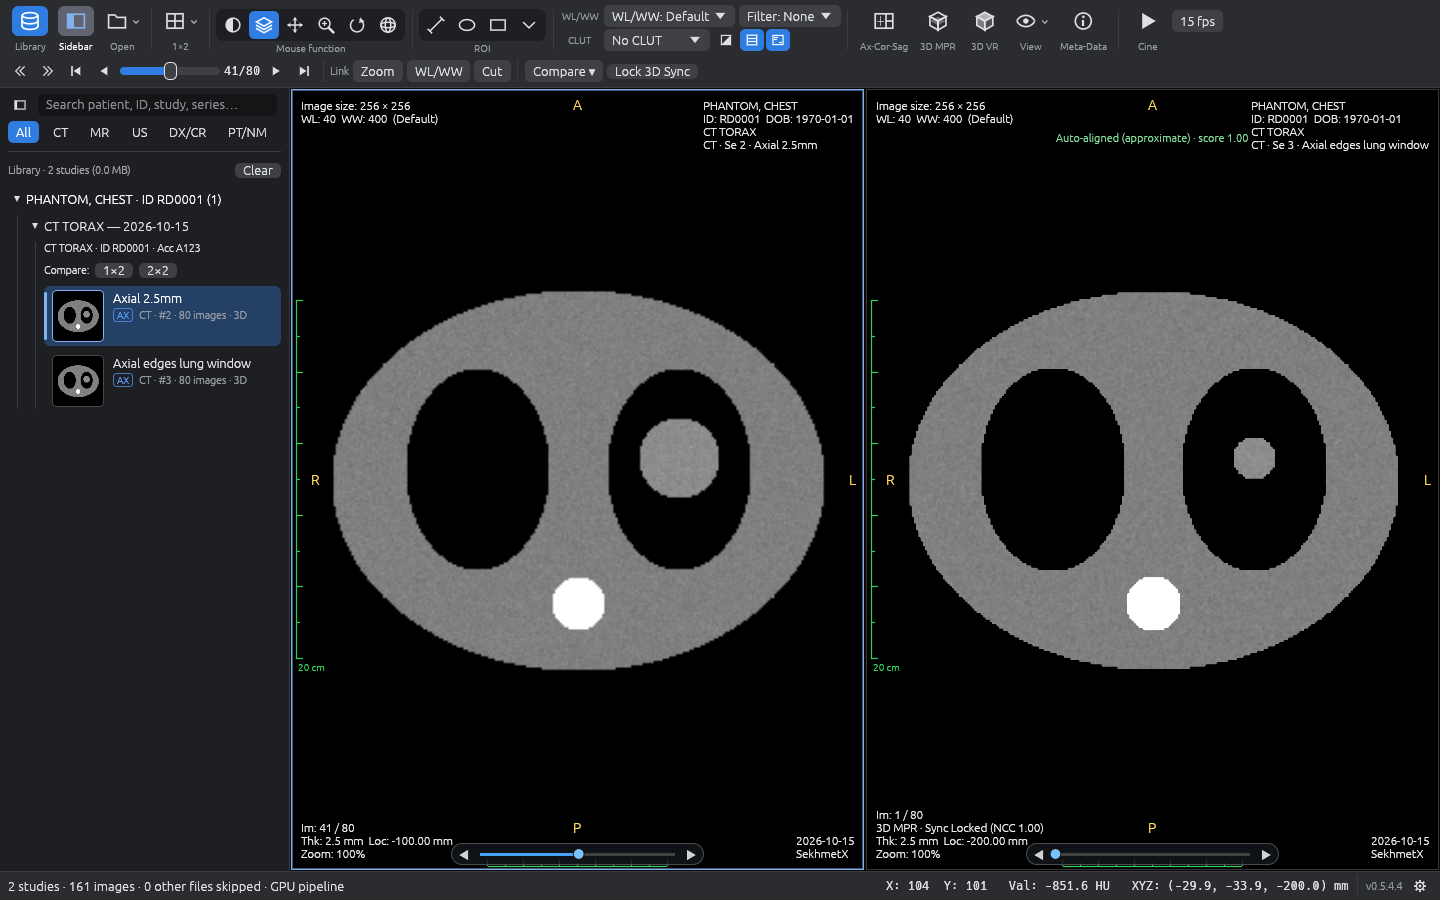
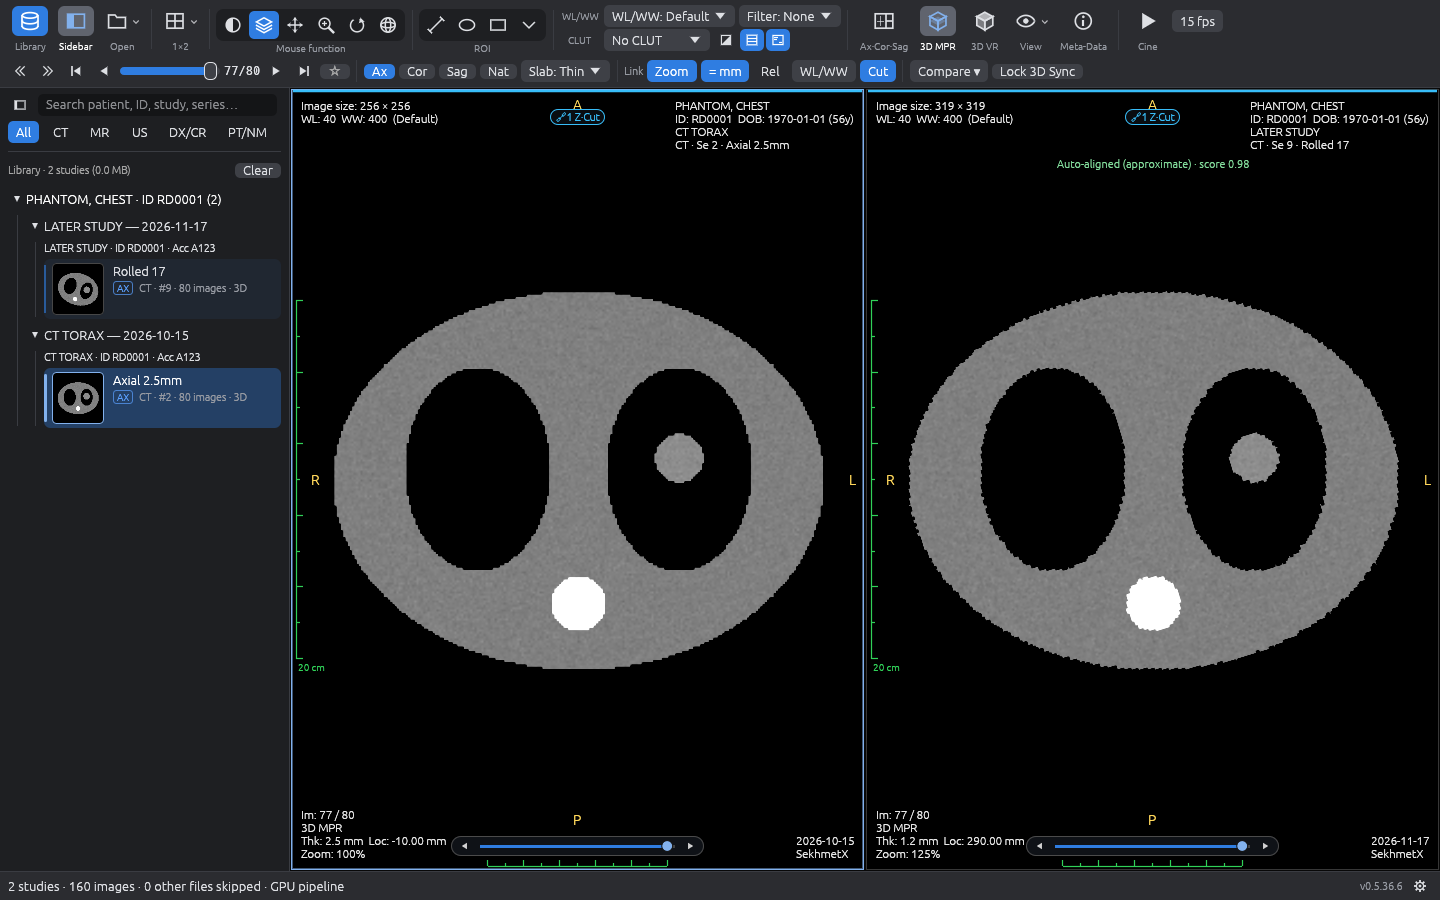
v0.5.37: housekeeping and polish
- Spanish for the last English-only interface texts.
- Thumbnail strip plane colours from the theme.
- README: comparison and series recognition as short points; new
  two-date comparison screenshot (synthetic phantom).
- HANDOFF.md and BUGS.md brought up to date.

Claude-Session: https://claude.ai/code/session_014Ky7fZmCKYEdPLtrrREXzJ

diff --git a/src/app/modals.rs b/src/app/modals.rs
@@ -1281,11 +1281,11 @@ impl ViewerApp {
             .anchor(egui::Align2::RIGHT_BOTTOM, egui::vec2(-14.0, -34.0))
             .show(ctx, |ui| {
                 let Some(k) = self.viewport_measure_key(vp_idx) else {
-                    ui.small("No active slice.");
+                    ui.small(if self.lang == crate::i18n::Lang::Es { "No hay imagen activa." } else { "No active slice." });
                     return;
                 };
                 let Some(frame) = self.viewport_frame(vp_idx) else {
-                    ui.small("Frame not loaded.");
+                    ui.small(if self.lang == crate::i18n::Lang::Es { "Imagen aún no cargada." } else { "Frame not loaded." });
                     return;
                 };
                 let list = self.measures.get(&k);
@@ -1327,7 +1327,7 @@ impl ViewerApp {
                             96,
                         );
                         if samples.len() < 2 {
-                            ui.small("No samples.");
+                            ui.small(if self.lang == crate::i18n::Lang::Es { "Sin muestras." } else { "No samples." });
                             return;
                         }
                         let (min_v, max_v, mean_v) = summarize_samples(&samples);
@@ -1369,14 +1369,14 @@ impl ViewerApp {
                         } else {
                             crate::roi::RoiPlanarGeometry::outline_of_rectangle(r).to_vec()
                         };
-                        draw_histogram_bars(ui, frame, &outline, unit);
+                        draw_histogram_bars(ui, frame, &outline, unit, self.lang);
                     }
                     crate::app::Measure::Polygon(pts) => {
                         let outline: Vec<crate::roi::RoiPoint> = pts
                             .iter()
                             .map(|p| crate::roi::RoiPoint::new(p.x as f64, p.y as f64))
                             .collect();
-                        draw_histogram_bars(ui, frame, &outline, unit);
+                        draw_histogram_bars(ui, frame, &outline, unit, self.lang);
                     }
                     crate::app::Measure::Pencil(pts) => {
                         let raw: Vec<crate::roi::RoiPoint> = pts
@@ -1385,10 +1385,10 @@ impl ViewerApp {
                             .collect();
                         let (smoothed, _) = crate::roi::RoiSpline::smooth(&raw, 1.5);
                         let outline = if smoothed.len() >= 3 { &smoothed } else { &raw };
-                        draw_histogram_bars(ui, frame, outline, unit);
+                        draw_histogram_bars(ui, frame, outline, unit, self.lang);
                     }
                     _ => {
-                        ui.small("Histogram available for Length / Area ROIs.");
+                        ui.small(if self.lang == crate::i18n::Lang::Es { "Histograma disponible para ROI de longitud o de área." } else { "Histogram available for Length / Area ROIs." });
                     }
                 }
             });
@@ -1557,10 +1557,11 @@ fn draw_histogram_bars(
     frame: &crate::frame::Frame,
     outline: &[crate::roi::RoiPoint],
     unit: &str,
+    lang: crate::i18n::Lang,
 ) {
     let samples = crate::roi::sample_region_values(frame, outline);
     if samples.is_empty() {
-        ui.small("No interior pixels.");
+        ui.small(if lang == crate::i18n::Lang::Es { "Sin píxeles dentro de la ROI." } else { "No interior pixels." });
         return;
     }
     let (min_v, max_v, mean_v) = summarize_samples(&samples);

diff --git a/src/app/browser.rs b/src/app/browser.rs
@@ -168,7 +168,7 @@ impl ViewerApp {
             ui.with_layout(egui::Layout::right_to_left(egui::Align::Center), |ui| {
                 if ui
                     .small_button(tr.clear)
-                    .on_hover_text("Clear studies from the local library (files on disk are untouched)")
+                    .on_hover_text(if self.lang == crate::i18n::Lang::Es { "Quitar los estudios de la biblioteca local (los archivos en el disco no se tocan)" } else { "Clear studies from the local library (files on disk are untouched)" })
                     .clicked()
                 {
                     clear_library = true;
@@ -747,9 +747,11 @@ impl ViewerApp {
                                                             .size(11.0)
                                                             .color(theme::accent_bright()),
                                                     )
-                                                    .on_hover_text(
-                                                        "Grouped Axial / Coronal / Sagittal reconstructions. Click to open in 3D MPR.",
-                                                    );
+                                                    .on_hover_text(if self.lang == crate::i18n::Lang::Es {
+                                                        "Reconstrucciones axial / coronal / sagital agrupadas. Clic para abrir en MPR 3D."
+                                                    } else {
+                                                        "Grouped Axial / Coronal / Sagittal reconstructions. Click to open in 3D MPR."
+                                                    });
                                                 if hdr.clicked() {
                                                     let target_ri = active_sel
                                                         .filter(|&(s_i, r_i)| {
@@ -1080,13 +1082,7 @@ impl ViewerApp {
                                 clicked = Some((self.active_viewport, (si, ri)));
                             }
 
-                            let badge_color = match cut_badge {
-                                "AX" => Color32::from_rgb(110, 190, 255),
-                                "COR" => Color32::from_rgb(130, 225, 160),
-                                "SAG" => Color32::from_rgb(255, 195, 105),
-                                b if b.starts_with("MPR") => theme::plane_color(b),
-                                _ => Color32::from_gray(175),
-                            };
+                            let badge_color = theme::plane_color(cut_badge);
                             ui.label(
                                 egui::RichText::new(format!(
                                     "{cut_badge} · {}",

diff --git a/src/app/viewport.rs b/src/app/viewport.rs
@@ -941,11 +941,11 @@ impl ViewerApp {
                 if resp.clicked() {
                     self.viewports[vp_idx].link_group = (raw_group + 1) % 5;
                 }
-                resp.on_hover_text("Click to cycle Link Group (1–4 or Off)");
+                resp.on_hover_text(if self.lang == crate::i18n::Lang::Es { "Clic para cambiar de grupo de vínculo (1–4 o ninguno)" } else { "Click to cycle Link Group (1–4 or Off)" });
             }
         } else if cell_count > 2 && any_link {
             let col = Color32::from_gray(145);
-            let label = "○ Link".to_string();
+            let label = if self.lang == crate::i18n::Lang::Es { "○ Vincular" } else { "○ Link" }.to_string();
             let font = FontId::proportional(10.5);
             let galley = painter.layout_no_wrap(label.clone(), font.clone(), col);
             let pill_size = galley.size() + vec2(12.0, 4.0);
@@ -964,7 +964,7 @@ impl ViewerApp {
             if resp.clicked() {
                 self.viewports[vp_idx].link_group = 1;
             }
-            resp.on_hover_text("Click to assign this viewport to a Link Group");
+            resp.on_hover_text(if self.lang == crate::i18n::Lang::Es { "Clic para asignar este visor a un grupo de vínculo" } else { "Click to assign this viewport to a Link Group" });
         }
     }
 

diff --git a/HANDOFF.md b/HANDOFF.md
@@ -1,4 +1,4 @@
-# Handoff: where the project stands (v0.5.18, 17 Nov 2026)
+# Handoff: where the project stands (v0.5.37, 19 Nov 2026)
 
 Written for whoever continues this, human or agent. It records what exists,
 the owner's standing rules, what was verified, what is unfinished, and what
@@ -70,7 +70,7 @@ These were set over the course of the project and are not all in `AGENTS.md`.
   file SekhmetX reads. Wait for the owner's design before starting it.
 - Dark theme is the default.
 
-## What exists (v0.5.18)
+## What exists (v0.5.37)
 
 - **2D viewer:** scroll, zoom, pan, rotate/flip, invert, cine, Horos window
   presets, 31 CLUTs, 22 convolution filters, GPU window/level with bilinear
@@ -91,9 +91,25 @@ These were set over the course of the project and are not all in `AGENTS.md`.
 - **3D volume rendering:** GPU ray-caster (VR and MIP), five presets, shading
   with ambient/diffuse/specular, histogram and transfer-function editor,
   clip box, background colour, orientation cube.
-- **Comparison:** layouts up to 4×4, colour-coded link groups (zoom, WL, cut),
-  two zoom-link modes, cross-study rigid registration on a worker thread,
-  Compare popover.
+- **Comparison of two dates** (`src/volume.rs` registration, `src/app/mpr_sync.rs`):
+  layouts up to 4×4, colour-coded link groups (zoom, WL, cut), Compare popover.
+  Registration runs on a worker thread: a whole-volume search and a
+  body-outline method (body mask per axial slice without the table, height
+  profiles, roll from the outline, refinement on body voxels), the better one
+  kept, then refined per level (8 cm stretches every 3 cm, `fit_local`) for
+  breathing, twist and pelvic tilt. The viewport where a link is switched on
+  is the master (`link_master`); followers are turned, centred on the matching
+  anatomy and zoomed "= mm" to it. `Ctrl`/`Cmd` adjusts one viewport alone and
+  relocks. `sekhmetx.log` records each registration ("Body registration",
+  "Local alignment", "Registration finished").
+- **Series recognition** (`src/dicom_index.rs`): complete volumes (≥30 slices,
+  ≤2 mm) get an MPR badge (MPR-A/C/S when one reconstruction exists as volumes
+  in several planes); reconstructions are folded into their volume's card
+  (`find_reconstructions`): by position for placeable series, and for
+  Secondary Capture pictures (no position/orientation, typical of Canon spine
+  coronals) by their run of same-named neighbouring series and acquisition
+  time, with the plane inferred from the run. Canon FC kernel codes, Spanish
+  kernel words, dose pages to "Single images / Scouts".
 - **Other:** PNG and anonymized DICOM export, anonymized `Ctrl+C` screenshot,
   right-click menu with a tool palette, maximise a viewport by double-click,
   drag-and-drop series, metadata inspector, EN/ES interface, OLED theme,
@@ -129,7 +145,12 @@ Local data lives in `%LOCALAPPDATA%\SekhmetX` (or beside the exe when a
 
 ## What was verified, and what was not
 
-Verified on Linux, 17 Nov 2026, at v0.5.18:
+Verified on Linux, 19 Nov 2026, at v0.5.37: clippy (Rust 1.97) clean, 124 tests
+pass, build succeeds; comparison, series badges and folding checked by eye on
+synthetic phantoms. The owner tested two-date comparison and series grouping
+on real chest-abdomen-pelvis and whole-spine CTs (Canon) up to v0.5.29.
+
+Earlier, at v0.5.18:
 - `cargo clippy --release -- -D warnings` (Rust 1.97): clean. GitHub's CI used
   an older Rust and passed v0.5.17 even though Rust 1.97 rejected it; expect
   newer lints to appear when CI updates.
@@ -180,7 +201,17 @@ Not verified:
 
 ## Next steps
 
-The owner was offered these after v0.5.1 and has not chosen yet. Ask him.
+Open threads from the latest work:
+- Check the per-level alignment and the new "= mm" / centring on more real
+  two-date studies; tune the per-level limits (30 mm height, 15 mm, 6°) from
+  `sekhmetx.log` if needed.
+- Reading a picture-only series' plane from the image itself (symmetry and
+  shape of the body), as a fallback when its block does not show the other
+  two planes. Not needed for the studies seen so far.
+- The blank first images of a turned (oblique) follower near the top of a
+  scan: the scroll range spans the plane's projected extent.
+
+Longer-term options offered after v0.5.1, not yet chosen. Ask the owner.
 
 1. Curved MPR and measurements in 3D MPR.
 2. PET-CT fusion with SUV (`fusion-pet`, P2, not started).
@@ -195,6 +226,14 @@ Smaller candidates the IsiX 6.0.4 review turned up: live length ratios
 (`RulerCalibration`), and ultrasound region calibration (`USRegion`).
 
 ## Working across sessions
+
+**State on 19 Nov 2026:** GitHub `master` holds everything up to v0.5.37. The
+owner's PC had a local, unpushed v0.5.29 made with Antigravity (it added a
+"Fusión" toolbar button); it was never on GitHub, so this line of work does
+not contain it. Before working on the PC again, save that local work on a
+branch and reset the PC's `master` to GitHub's (see the steps given to the
+owner), then re-apply anything from it that is still wanted.
+
 
 Work has moved between Antigravity (Gemini) on the owner's PC, a Claude Code
 cloud session, and a local Claude Code session in the same PC folder. Only one

diff --git a/README.md b/README.md
@@ -64,10 +64,15 @@ or Pixmeo. It does not use their names or icons in the application.
 - Full-window library view with modality albums, a sortable study table, series
   thumbnails and a study details pane; search by patient, ID, accession, study
   or series.
-- Axial, coronal and sagittal reconstructions of one acquisition are grouped
-  together, and MIP series are kept apart from their source stacks. A complete
-  thin-slice volume is marked MPR; separate reconstructions made from it are
-  hidden inside its card, shown by clicking their AX/COR/SAG tags.
+- Series are recognised the way a reader thinks of them: a complete thin-slice
+  volume is marked **MPR** (or MPR-A / MPR-C / MPR-S when the same
+  reconstruction exists in several planes); separate axial, coronal and
+  sagittal reconstructions made from it are tucked inside its card and shown by
+  clicking their AX/COR/SAG tags. This also works for reconstructions saved as
+  plain pictures, matched by acquisition time, kernel (including Canon FC
+  codes) and their place in the series list.
+- MIP series and different kernels are kept apart; dose reports, protocol pages
+  and scouts are gathered under "Single images / Scouts".
 
 **2D viewing**
 - GPU window/level with optional bilinear smoothing and a CPU fallback.
@@ -89,15 +94,15 @@ or Pixmeo. It does not use their names or icons in the application.
   gantry-tilt support and slice-spacing checks.
 - GPU volume rendering and 3D MIP with presets, shading, a transfer-function
   editor, clipping and an orientation cube.
-- Side-by-side comparison of studies from different dates with automatic 3D
-  alignment that matches the body outline (so a patient lying rolled, or a
-  scan covering a different stretch of the body, still lines up), refined
-  level by level for breathing and posture differences, and turns the
-  other images to match the viewport the comparison started from; or manual
-  alignment when the patient lay differently: hold
-  `Ctrl`/`Cmd` to move or turn one image alone and it stays linked with that
-  difference. Switching a link on makes the others match the viewport you are
-  in; "= mm" zoom shows both at the same physical scale.
+- Side-by-side comparison of studies from different dates:
+  - automatic 3D alignment that matches the body outline, so a patient lying
+    rolled, or a scan covering a different stretch of the body, still lines up;
+  - refined level by level along the body for breathing and posture
+    differences, followed smoothly while scrolling;
+  - the other images turn, centre and zoom to match the viewport the
+    comparison started from, at the same physical scale ("= mm");
+  - manual alignment when needed: hold `Ctrl`/`Cmd` to move or turn one image
+    alone, and it stays linked with that difference.
 
 **Measurements and key images**
 - Length, angle, Cobb angle, arrow with text, oval, rectangle, polygon, pencil
@@ -216,7 +221,7 @@ against Horos or IsiX.
 
 ## More screenshots
 
-| Comparing two series side by side | Library |
+| Two dates compared, the later one turned upright automatically | Library |
 |---|---|
 | ![Two linked viewports](docs/screenshots/compare.png) | ![Library view](docs/screenshots/library.png) |
 

diff --git a/BUGS.md b/BUGS.md
@@ -7,6 +7,9 @@ Per `AGENTS.md`, before updating SekhmetX or fixing any bug:
 3. Port/adapt the fix, add a regression test, mark the item `[x]` here, and release.
 
 ## Resolved
+- [x] **Comparison opened at different sizes and positions** (`v0.5.30`): "= mm" zoom was matched before the turned image was redrawn at its new size, and a turned image was centred on the middle of its own scan. Zoom now matches after the redraw; the matching anatomy is centred.
+- [x] **Reconstructions filed under the wrong volume** (`v0.5.34`–`v0.5.36`): coronal spine reconstructions saved as Secondary Capture (no position or orientation) showed as "2D", and same-named lumbar ones went under the thoracic volume. Now filed by their block of neighbouring series and their acquisition time, plane inferred from the block; Canon FC kernel codes and Canon dose pages recognised.
+- [x] **Two-date alignment off by a few millimetres or degrees** (`v0.5.26`–`v0.5.27`): one rigid fit for the whole body could not match breathing, twist and pelvic tilt; body-outline alignment plus per-level refinement added.
 - [x] **Rotation sync between two studies could not be made to work** (`v0.5.24`): with automatic 3D alignment failing (patient rolled, partial overlap), rotating either image copied its orientation onto the other and a later background alignment replaced a manual lock. Rotation now follows as a relative change, `Ctrl`/`Cmd`+drag turns one image alone, and manual locks are kept.
 - [x] **In-app Auto-Update** (`v0.2.2`–`v0.2.3`): Checks GitHub Releases (`CosmicTaco22/SekhmetX`), streams downloads to disk, verifies `SHA256SUMS` before `self_replace`, exposes startup-check toggle, and notes unsigned builds.
 - [x] **3D loses detail / lung dots in MPR** (`v0.2.3`): Native-plane MPR (`SlabMode::Thin`) now returns exact bit-identical source slice voxels; oblique MPR samples only the viewport's own volume by default, with sibling blending moved behind an explicit off-by-default `Blend Siblings` toggle that disables ROI stats while active.

diff --git a/CHANGELOG.md b/CHANGELOG.md
@@ -7,6 +7,14 @@ and this project adheres to [Semantic Versioning](https://semver.org/spec/v2.0.0
 
 ---
 
+## [0.5.37] - 2026-11-19
+
+### Housekeeping and polish
+- Spanish for the last English-only texts: the library Clear button's hint, the grouped-reconstructions hint, the ROI histogram messages and the link-group badge and its hints.
+- The compact thumbnail strip takes its plane colours from the theme, so AX/COR/SAG/MPR match the series list (SAG was orange there, red elsewhere).
+- Project page: the comparison and series-recognition features rewritten as short points; the comparison screenshot replaced with a two-date comparison in which the later, rolled study is turned upright automatically (synthetic phantom).
+- `HANDOFF.md` brought up to v0.5.37 (comparison, series recognition, open threads, the state of the owner's unpushed local build); `BUGS.md` lists the comparison and series-filing fixes.
+
 ## [0.5.36] - 2026-11-19
 
 ### Improved: series recognition from the real spine study's DICOM tags
